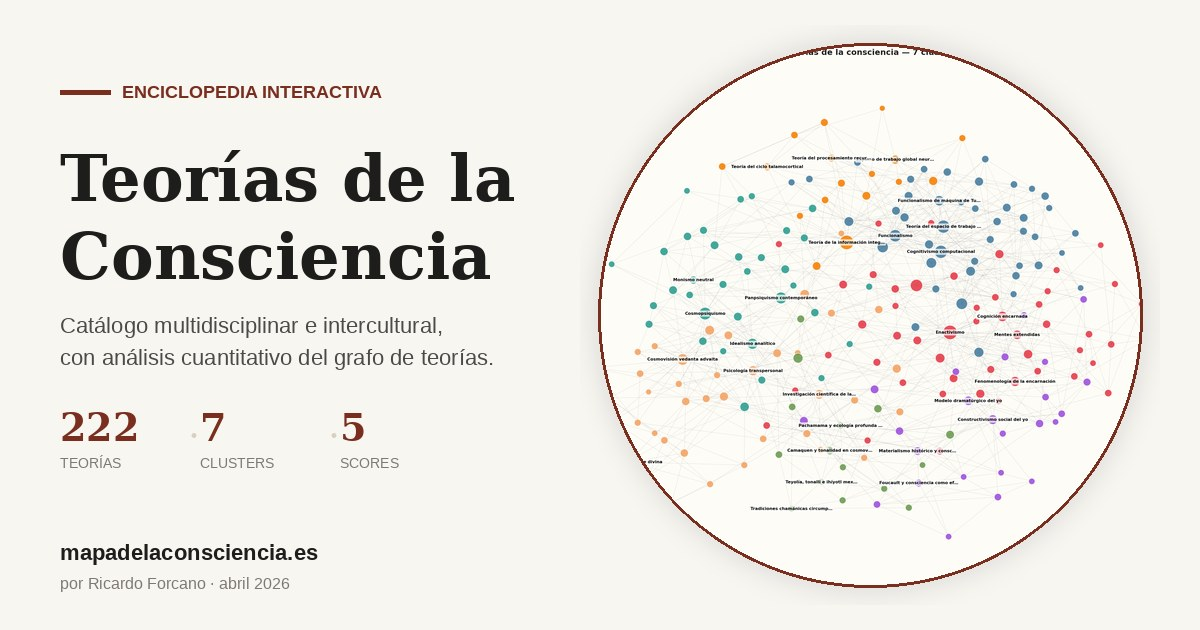
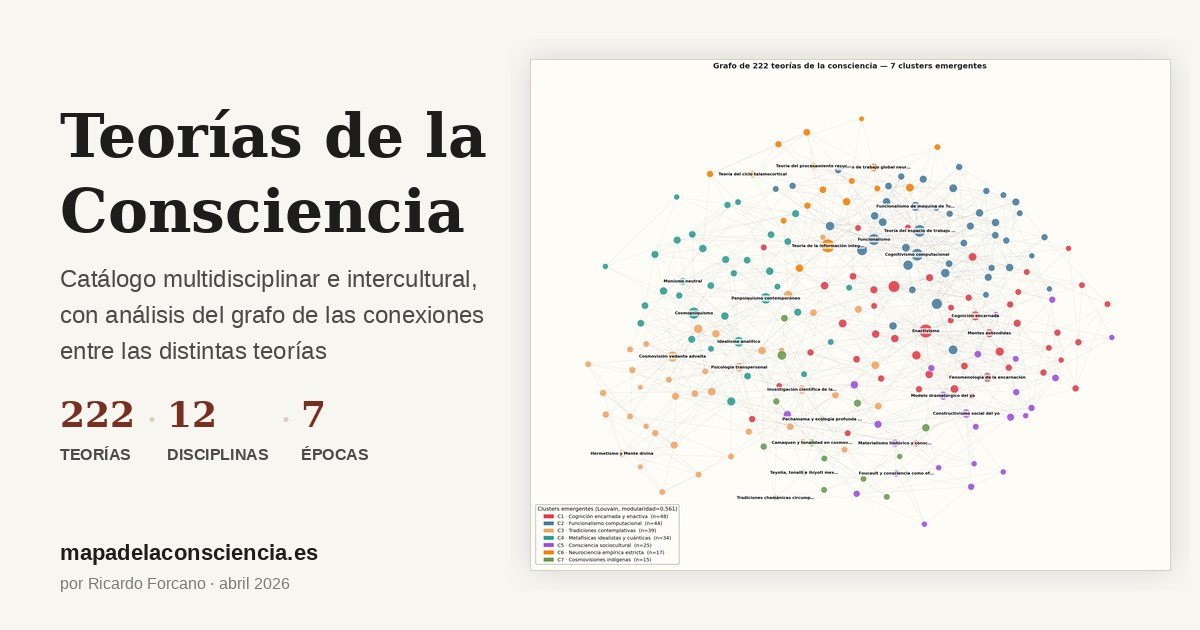
OG image actualizada (subtítulo + stats + grafo más grande), <br> en títulos de Alternativa A y B

diff --git a/index.html b/index.html
@@ -1082,7 +1082,7 @@ main.content {
     </div>
 
     <div id="viewPropuestaVedanta" style="display:none;" class="info-view score-view">
-      <h2>Alternativa A — Modelo idealista: Vedanta Advaita como fundamento</h2>
+      <h2>Alternativa A — Modelo idealista:<br>Vedanta Advaita como fundamento</h2>
 
       <h3>Tesis central</h3>
       <p>Existe una <strong>consciencia universal</strong>, sin partes y sin fronteras, que es el sustrato ontológico último de todo lo real. Esa consciencia no es una propiedad emergente del cerebro humano: es lo primero. Lo que llamamos "consciencia individual" en un ser humano no es algo distinto de la consciencia universal sino <strong>una modulación local</strong> suya, restringida por la estructura física de un organismo concreto.</p>
@@ -1151,7 +1151,7 @@ main.content {
     </div>
 
     <div id="viewPropuestaIit" style="display:none;" class="info-view score-view">
-      <h2>Alternativa B — Modelo materialista-emergentista: Teoría de la Información Integrada como fundamento</h2>
+      <h2>Alternativa B — Modelo materialista-emergentista:<br>Teoría de la Información Integrada como fundamento</h2>
 
       <h3>Tesis central</h3>
       <p>Lo primero, ontológicamente, es la materia y sus configuraciones físico-informacionales. La consciencia no es un dato inicial: <strong>emerge</strong> cuando la materia se organiza de cierto modo. Lo que las tradiciones contemplativas describen como "consciencia universal" no es una entidad metafísica primaria sino el <strong>estado experiencial límite</strong> al que llega un sistema consciente cuando se desarrolla, se complejiza y entrena su capacidad de auto-observación.</p>
